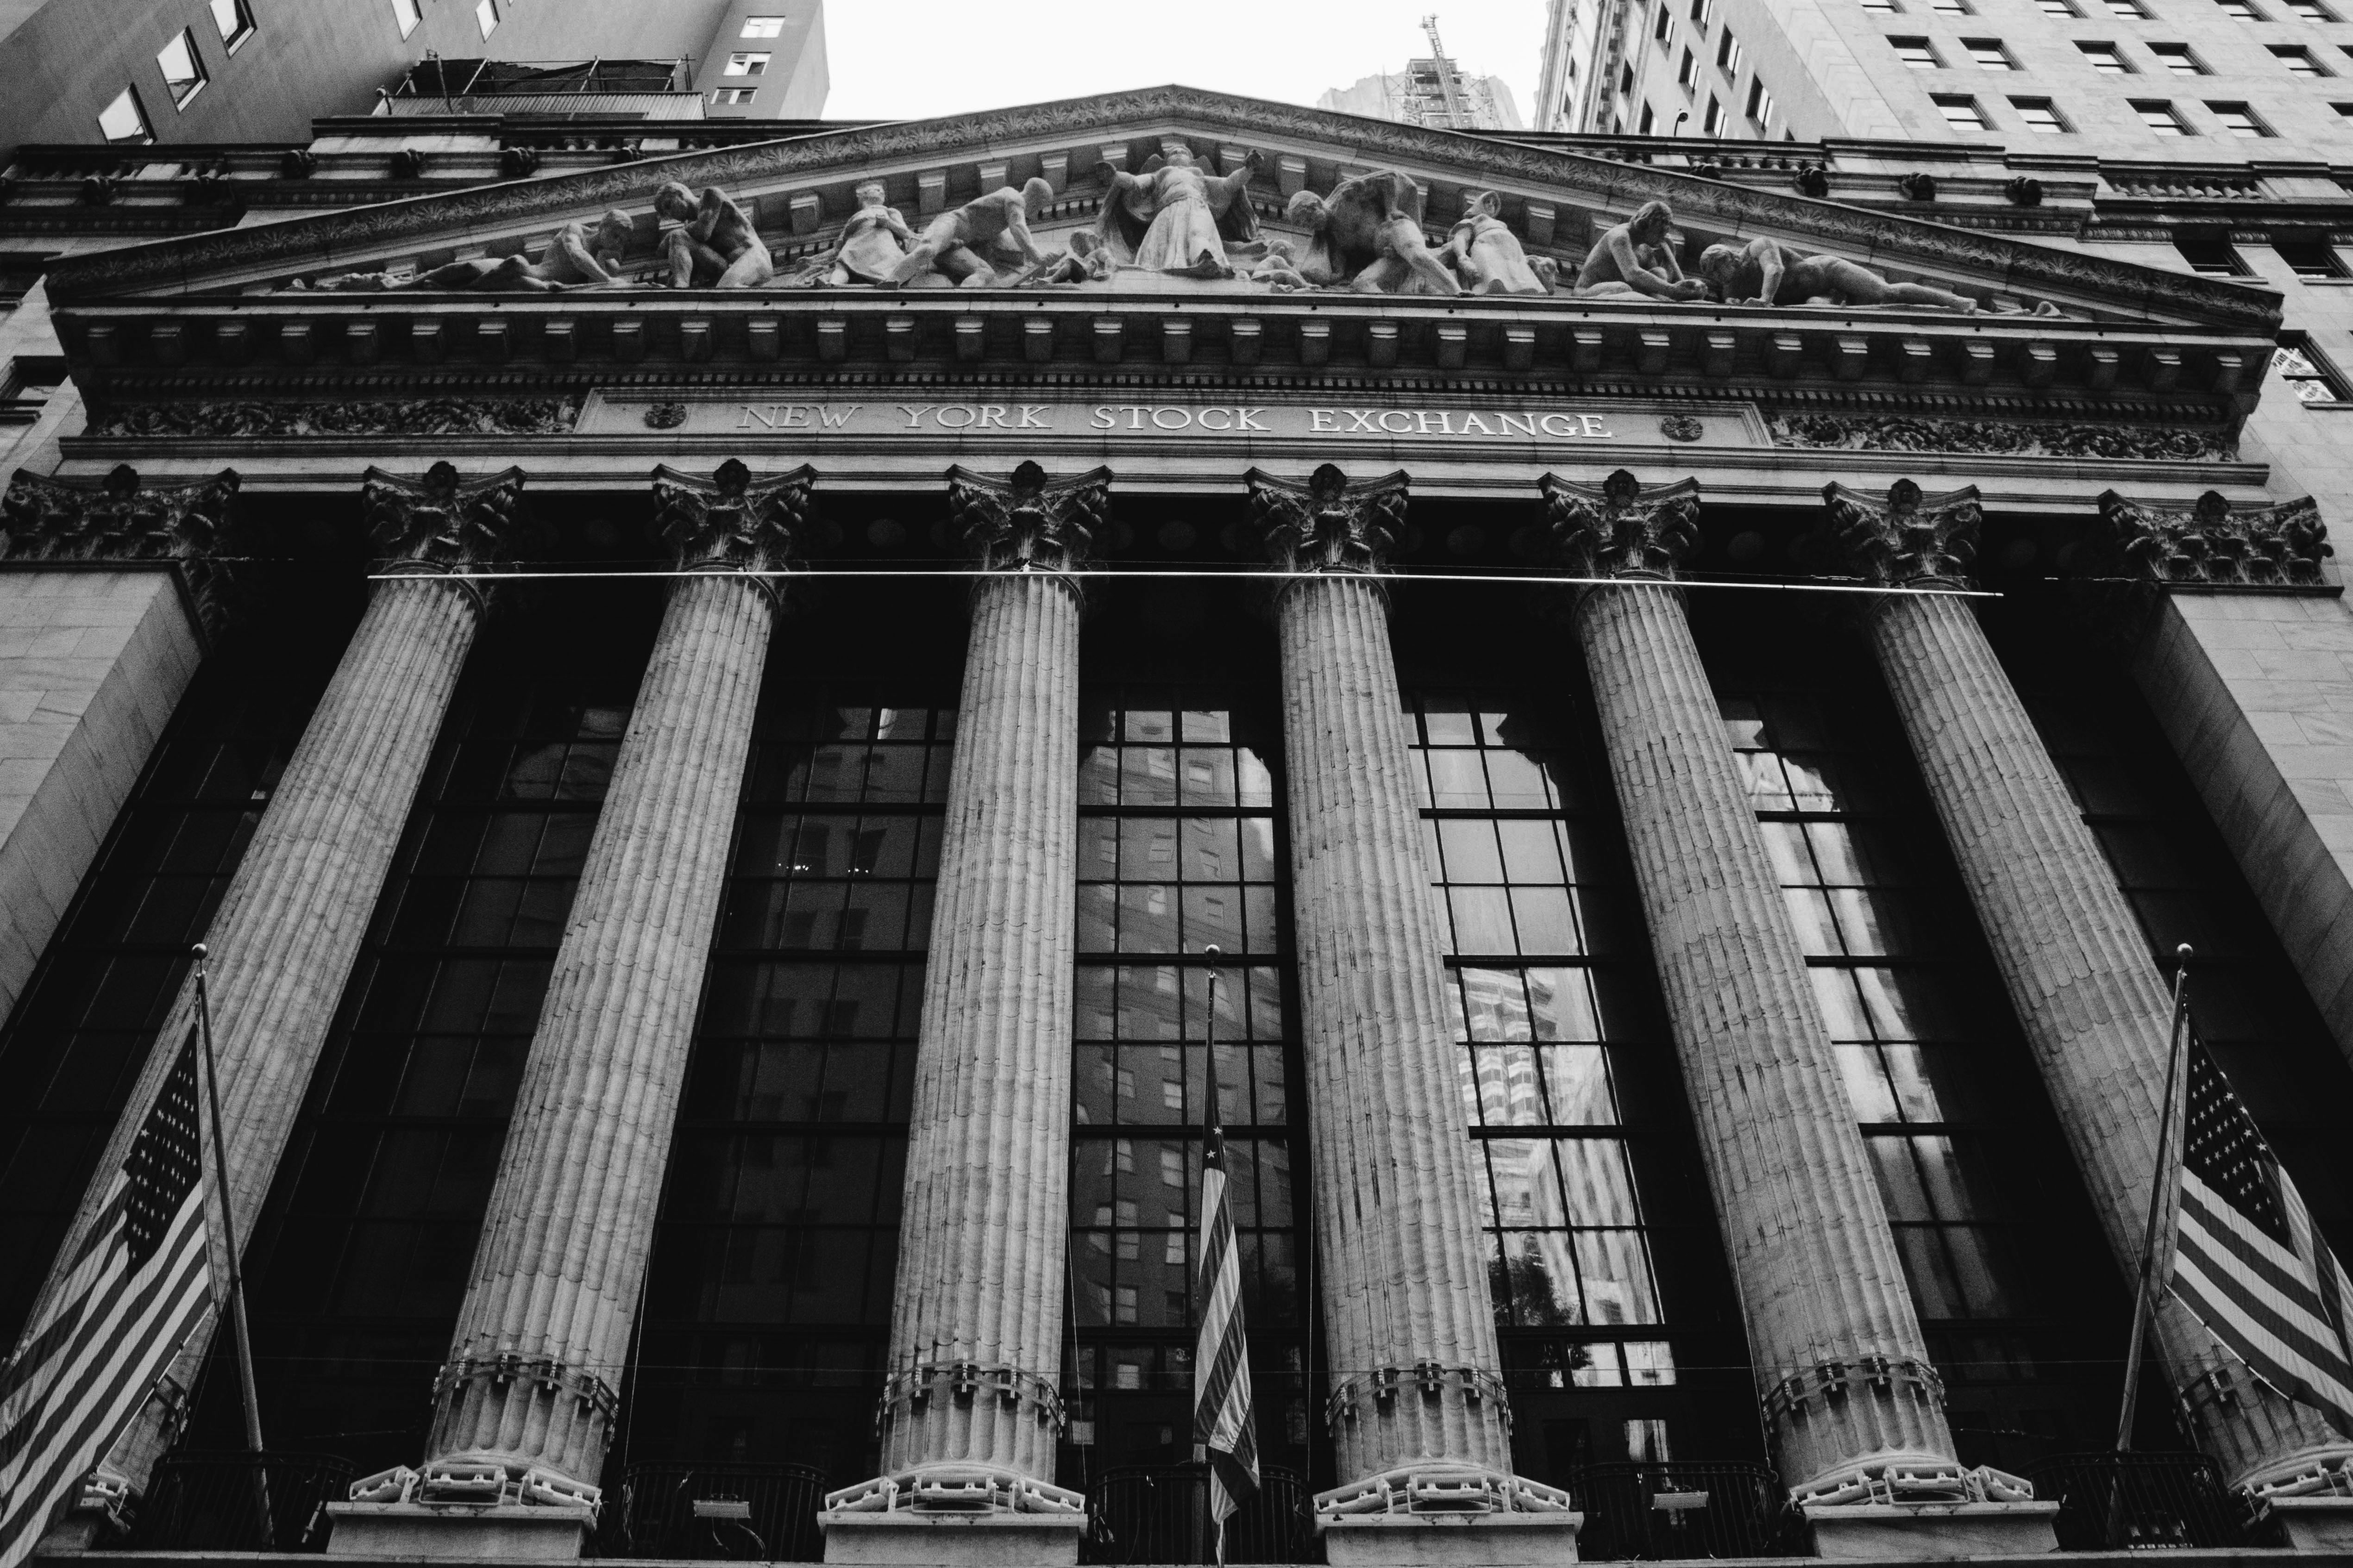
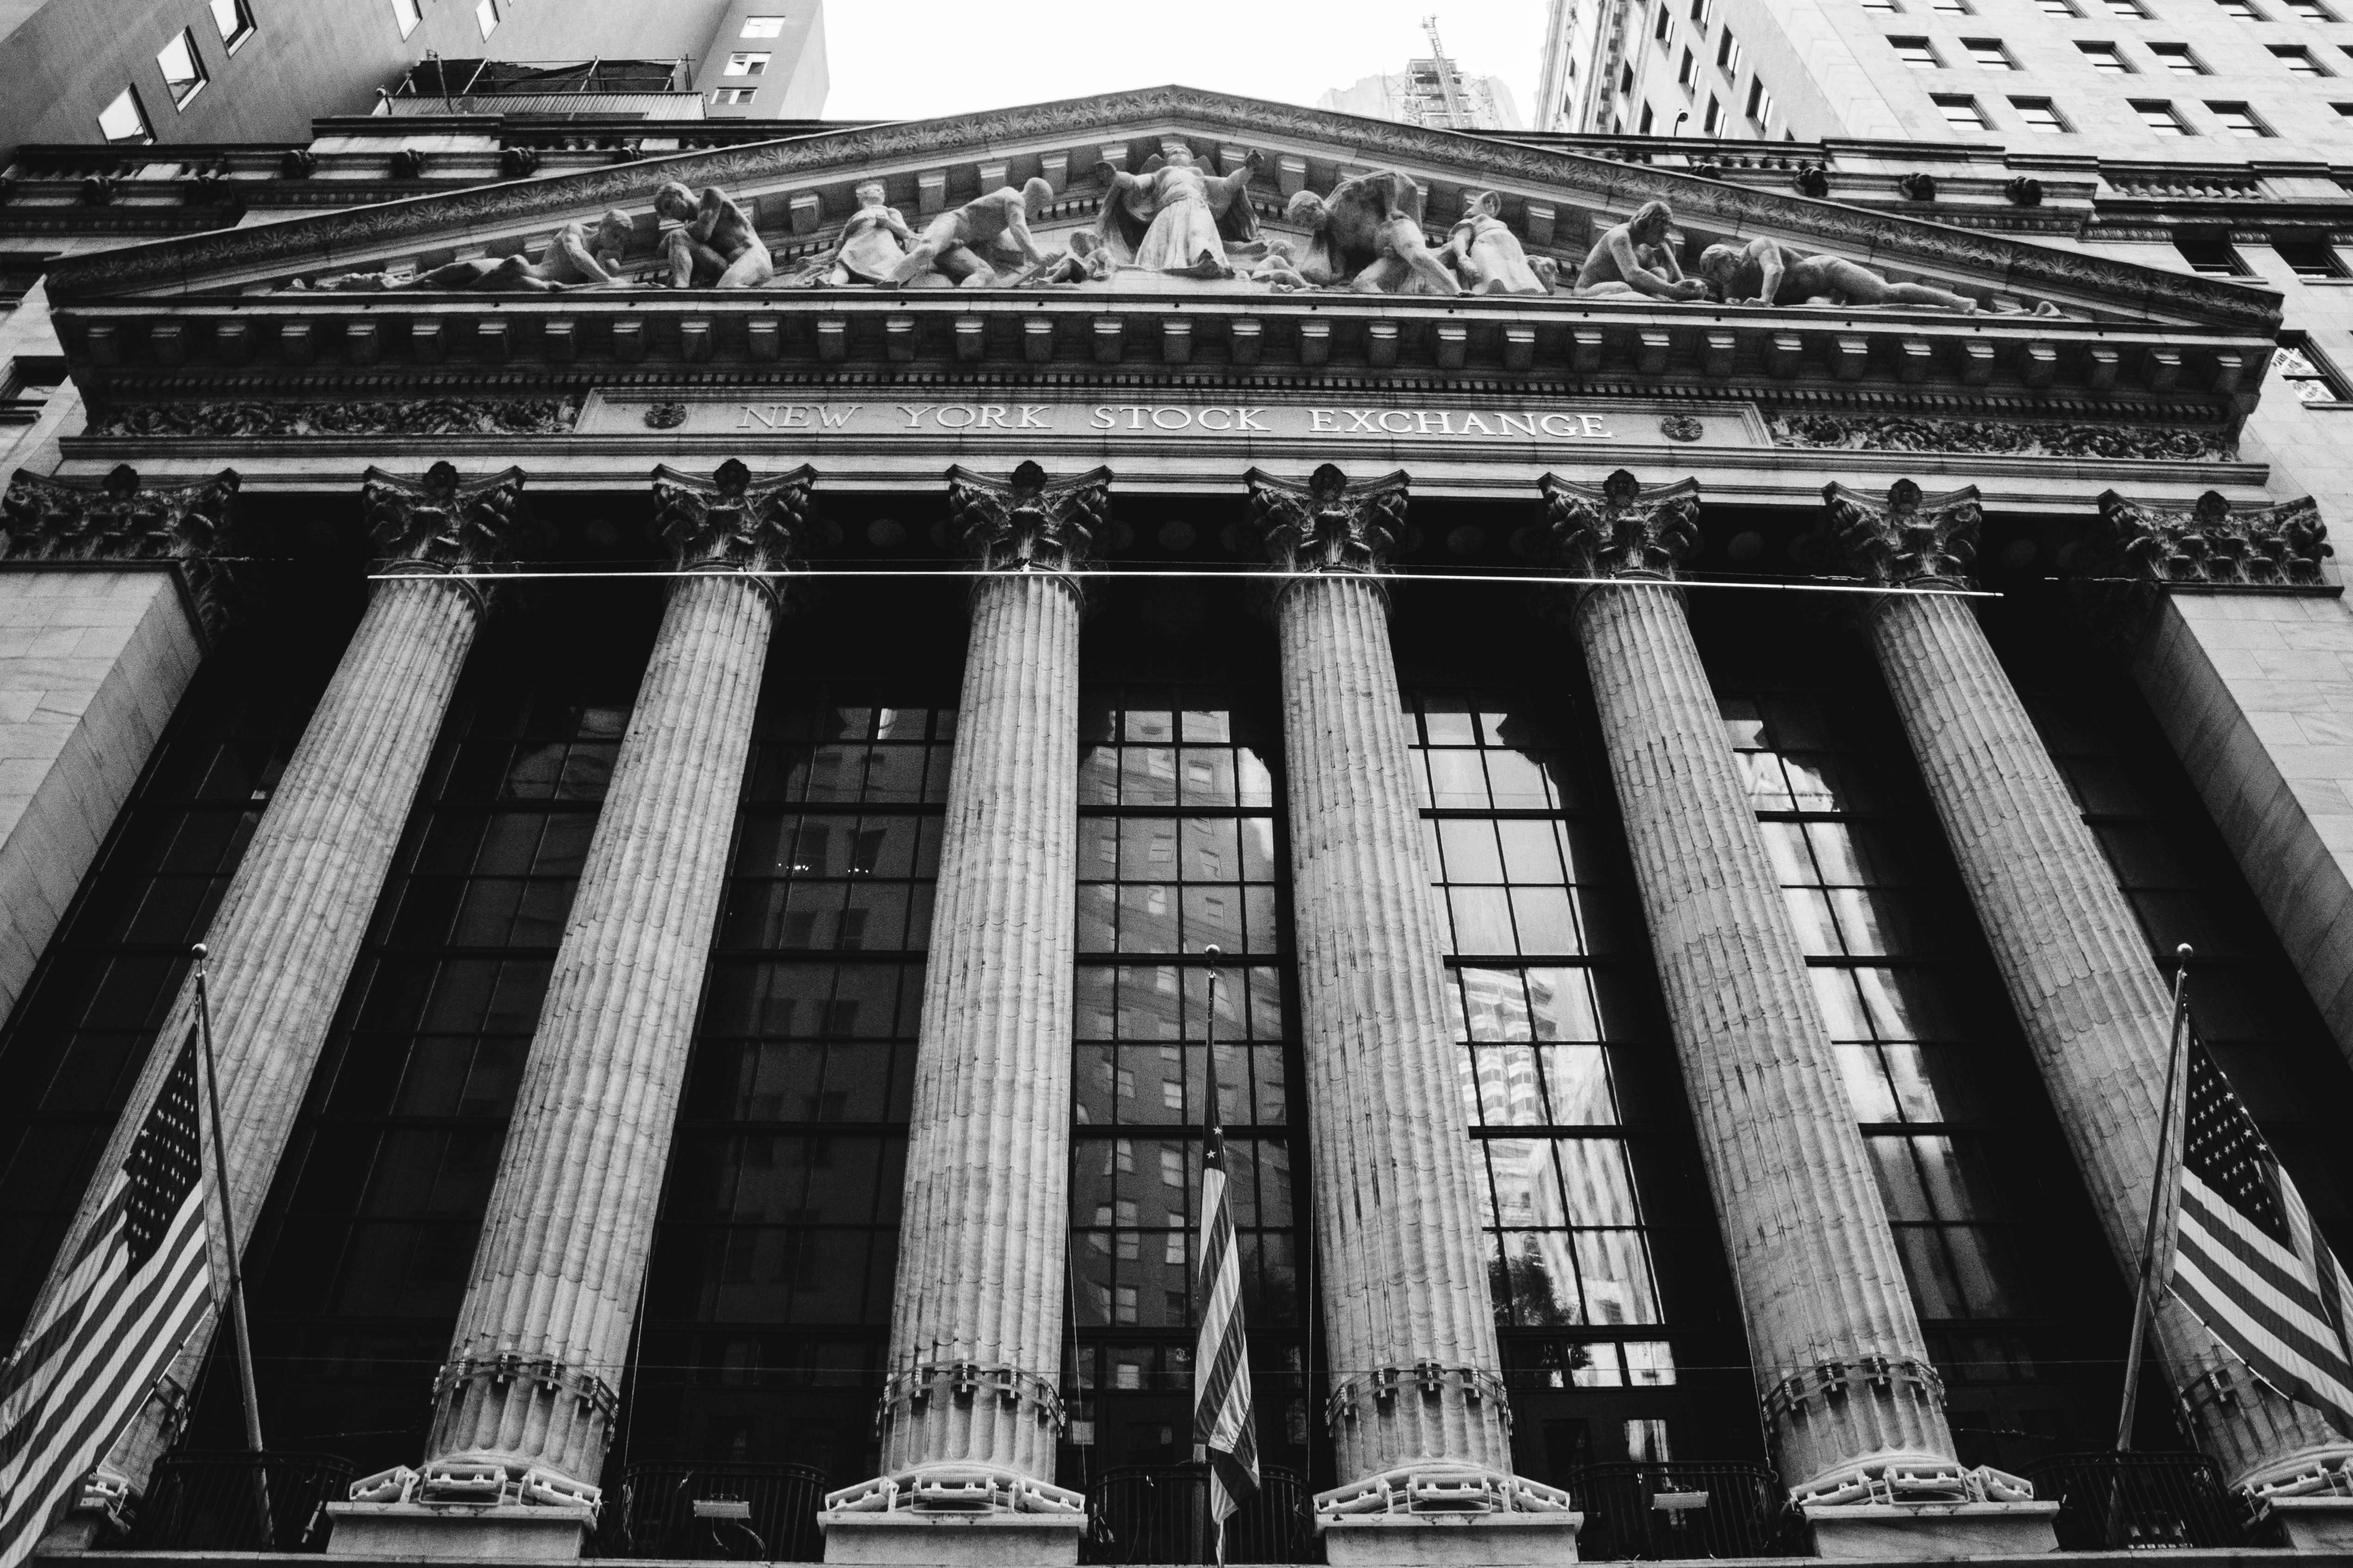
update master

diff --git a/client/src/components/Styles/Landing/landing.css b/client/src/components/Styles/Landing/landing.css
@@ -133,7 +133,7 @@ select::-ms-expand {
 .hero {
     position: relative;
     width: 100%;
-    background-image: url(../../Landing/images/wall_street.jpg);
+    background-image: url(../../Landing/images/wall_street4.jpg);
     -webkit-box-shadow: 0 4px 11px rgba(124, 146, 169, 0.5);
     box-shadow: 0 4px 11px rgba(124, 146, 169, 0.5);
     background-size: cover;
